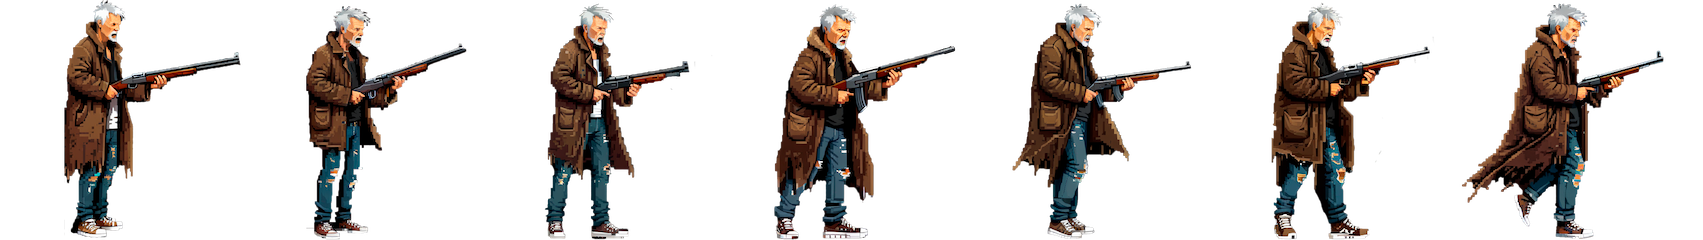
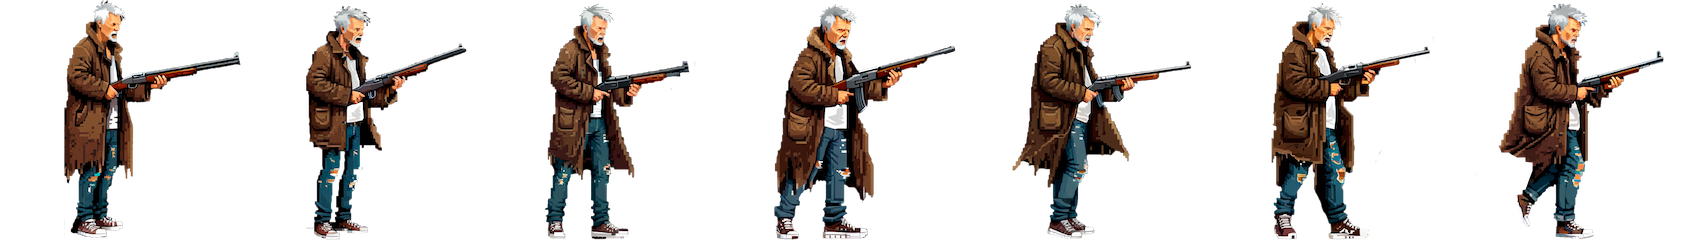
Add primitive following AI for mobs

diff --git a/src/mob/ai.rs b/src/mob/ai.rs
@@ -1,0 +1,208 @@
+use std::{cmp::Ordering, collections::VecDeque};
+
+use bevy::prelude::*;
+
+use crate::{level::Layer, movement::MovementInput, player::Player};
+
+use super::Mob;
+
+/// Дистанция, на которую походить к цели, чтобы не толкаться вплотную.
+const TARGET_APPROACH_DISTANCE: f32 = 400.0;
+
+pub(super) fn plugin(app: &mut App) {
+    app.add_systems(
+        FixedUpdate,
+        (
+            setup_on_mob_added,
+            setup_on_player_added,
+            resolve_target,
+            pop_command,
+            execute_command,
+        ),
+    );
+}
+
+/// Очередь команд моба.
+#[derive(Component, Debug, Default, Reflect)]
+#[reflect(Component)]
+struct CommandQueue {
+    commands: VecDeque<MobCommand>,
+}
+
+impl CommandQueue {
+    /// Добавляет команду в конец очереди.
+    fn push(&mut self, cmd: MobCommand) {
+        self.commands.push_back(cmd);
+    }
+}
+
+/// Команда моба.
+#[derive(Debug, Reflect)]
+enum MobCommand {
+    /// Движение.
+    Move { distance: f32, layer: Layer },
+}
+
+/// Состояние выполняемой команды.
+#[derive(Component, Debug)]
+enum ActiveMobCommand {
+    /// Движение.
+    Move {
+        start_x: f32,
+        required_distance: f32,
+        target_layer: Layer,
+        last_x: Option<f32>,
+        last_layer: Option<Layer>,
+    },
+}
+
+#[derive(Component, Debug, Reflect)]
+#[reflect(Component)]
+struct Target(Entity);
+
+/// Настройка при спавне моба.
+fn setup_on_mob_added(
+    mob_q: Query<Entity, (Added<Mob>, Without<Target>)>,
+    player_q: Query<Entity, With<Player>>,
+    mut commands: Commands,
+) {
+    let maybe_player = player_q.single().ok();
+
+    for entity in mob_q {
+        // Добавляем компоненты AI.
+        commands.entity(entity).insert(CommandQueue::default());
+
+        // Если игрок заспавнен, делаем его целью.
+        if let Some(player) = maybe_player {
+            commands.entity(entity).insert(Target(player));
+        }
+    }
+}
+
+/// Настройка при спавне игрока.
+fn setup_on_player_added(
+    player_q: Query<Entity, Added<Player>>,
+    mob_q: Query<Entity, (With<Mob>, Without<Target>)>,
+    mut commands: Commands,
+) {
+    let Ok(player) = player_q.single() else {
+        return;
+    };
+
+    // Делаем игрока целью для всех ранее заспавненных мобов.
+    for entity in mob_q {
+        commands.entity(entity).insert(Target(player));
+    }
+}
+
+/// Решает как достичь цели и задаёт команды.
+fn resolve_target(
+    mob_q: Query<(&Target, &GlobalTransform, &mut CommandQueue), Without<ActiveMobCommand>>,
+    target_q: Query<(&GlobalTransform, &Layer)>,
+) {
+    for (target, mob_global_transform, mut command_queue) in mob_q {
+        let Ok((target_global_transform, target_layer)) = target_q.get(target.0) else {
+            continue;
+        };
+
+        let target_x = target_global_transform.translation().x;
+        let mob_x = mob_global_transform.translation().x;
+        let distance = target_x - mob_x;
+
+        // Если уже достаточно подошли, дальше не надо.
+        if distance.abs() < TARGET_APPROACH_DISTANCE {
+            continue;
+        }
+
+        let approach_distance = distance - distance.signum() * TARGET_APPROACH_DISTANCE;
+
+        command_queue.push(MobCommand::Move {
+            distance: approach_distance,
+            layer: *target_layer,
+        });
+    }
+}
+
+/// Берёт следующую команду из очереди на выполнение, если моб ничего не делает.
+fn pop_command(
+    mut commands: Commands,
+    q: Query<(Entity, &GlobalTransform, &mut CommandQueue), Without<ActiveMobCommand>>,
+) {
+    for (entity, global_transform, mut queue) in q {
+        let Some(cmd) = queue.commands.pop_front() else {
+            continue;
+        };
+
+        match cmd {
+            MobCommand::Move { distance, layer } => {
+                commands.entity(entity).insert(ActiveMobCommand::Move {
+                    start_x: global_transform.translation().x,
+                    required_distance: distance,
+                    target_layer: layer,
+                    last_x: None,
+                    last_layer: None,
+                });
+            }
+        }
+    }
+}
+
+/// Выполняет текущую команду.
+fn execute_command(
+    q: Query<(
+        Entity,
+        &GlobalTransform,
+        &Layer,
+        &mut MovementInput,
+        &mut ActiveMobCommand,
+    )>,
+    mut commands: Commands,
+) {
+    for (entity, global_transform, layer, mut movement_input, mut active_command) in q {
+        match active_command.as_mut() {
+            ActiveMobCommand::Move {
+                start_x,
+                required_distance,
+                target_layer,
+                last_x,
+                last_layer,
+            } => {
+                let current_x = global_transform.translation().x;
+
+                // Если застрял, сбрасываем команду.
+                if let Some(x) = last_x
+                    && *x == current_x
+                    && let Some(l) = last_layer
+                    && l == layer
+                {
+                    warn!("Mob {entity} has stuck");
+                    commands.entity(entity).remove::<ActiveMobCommand>();
+                    continue;
+                }
+
+                *last_x = Some(current_x);
+                *last_layer = Some(*layer);
+                let traveled = current_x - *start_x;
+
+                // Если надо ещё пройти по X, идём задаём движение в нужную сторону.
+                movement_input.x_direction = if traveled.abs() < required_distance.abs() {
+                    required_distance.signum()
+                } else {
+                    0.0
+                };
+
+                // Если нужно перейти на другой слой, пробуем это сделать.
+                movement_input.z_direction = match layer.cmp(&target_layer) {
+                    Ordering::Equal => 0,
+                    Ordering::Greater => -1,
+                    Ordering::Less => 1,
+                };
+
+                // Если уже не нужно никуда идти, ни по X, ни по Z, значит команда выполнена.
+                if movement_input.x_direction == 0.0 && movement_input.z_direction == 0 {
+                    commands.entity(entity).remove::<ActiveMobCommand>();
+                }
+            }
+        }
+    }
+}

diff --git a/src/mob.rs b/src/mob.rs
@@ -1,3 +1,5 @@
+mod ai;
+
 use bevy::prelude::*;
 
 use crate::character::Registry as CharacterRegistry;
@@ -7,6 +9,7 @@ pub(super) fn plugin(app: &mut App) {
     app.register_type::<Mob>();
     app.register_type::<MobSpawnPoint>();
     app.add_systems(FixedUpdate, spawn);
+    app.add_plugins(ai::plugin);
 }
 
 /// Неигровой персонаж

diff --git a/src/movement.rs b/src/movement.rs
@@ -107,7 +107,7 @@ impl MovementBundle {
 }
 
 /// Текущее действие движения
-#[derive(Component, Default, Reflect)]
+#[derive(Component, Debug, Default, Reflect)]
 #[reflect(Component)]
 pub struct MovementInput {
     pub x_direction: Scalar,
